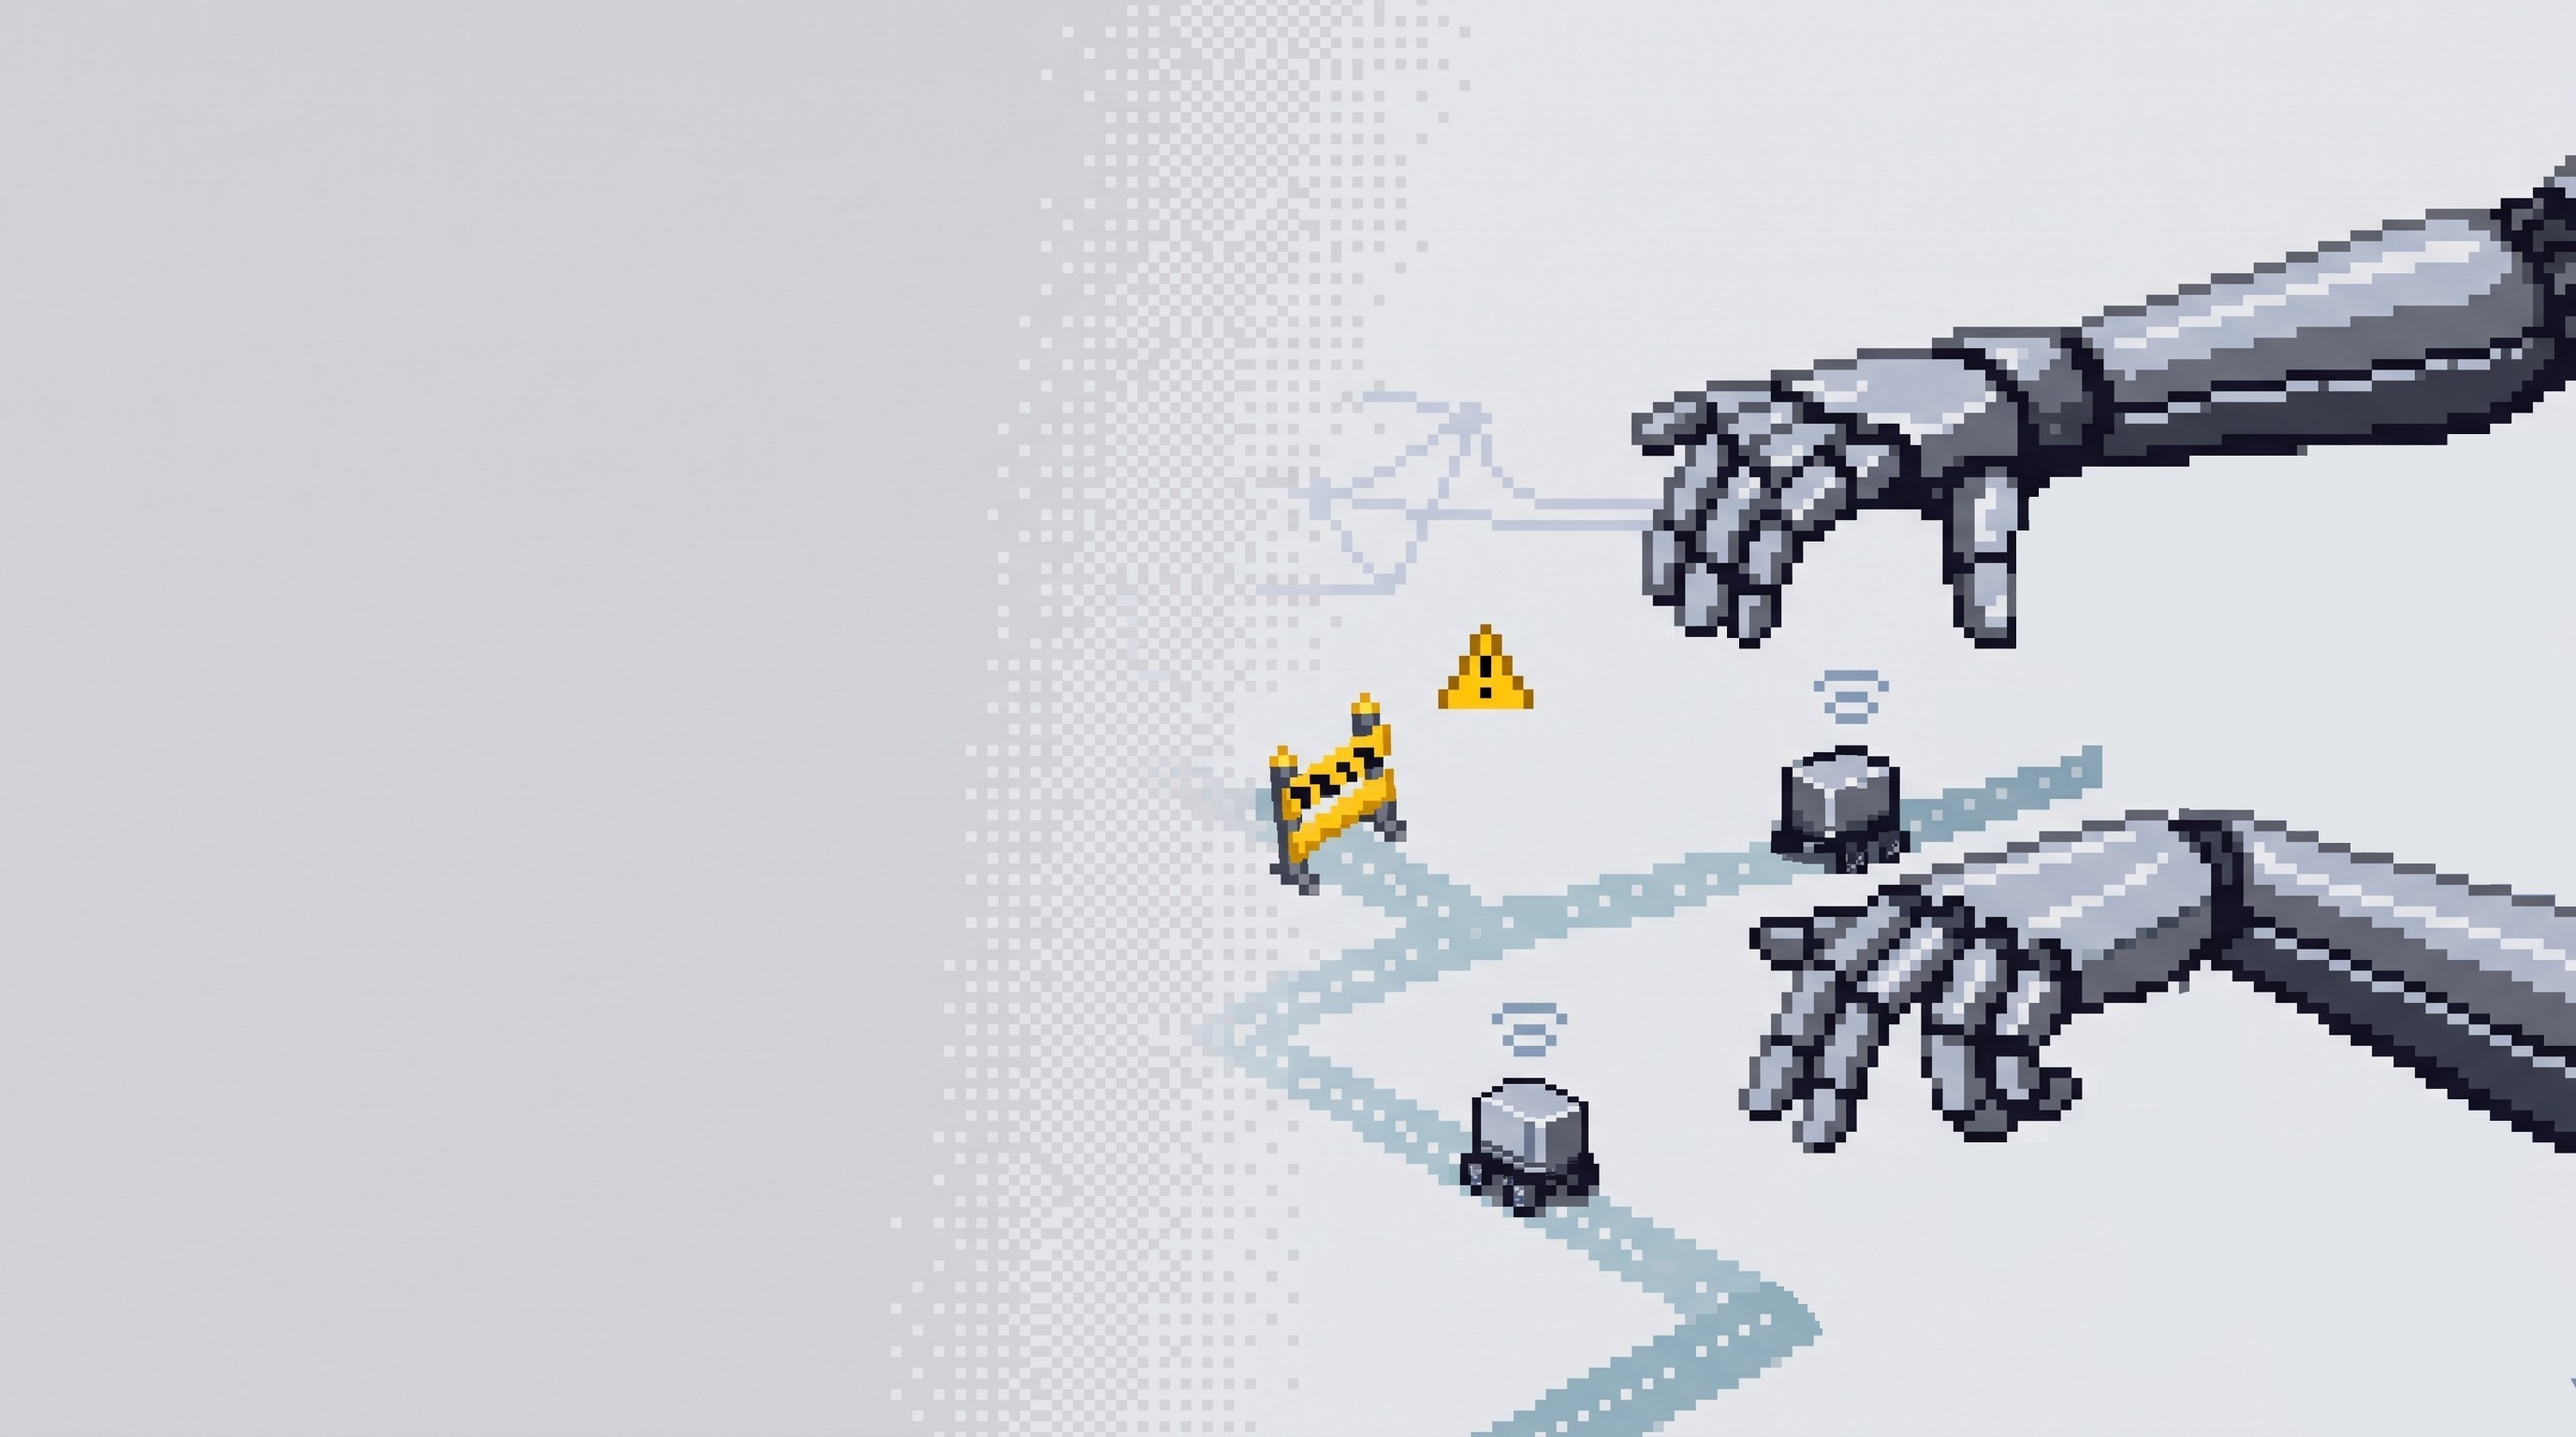
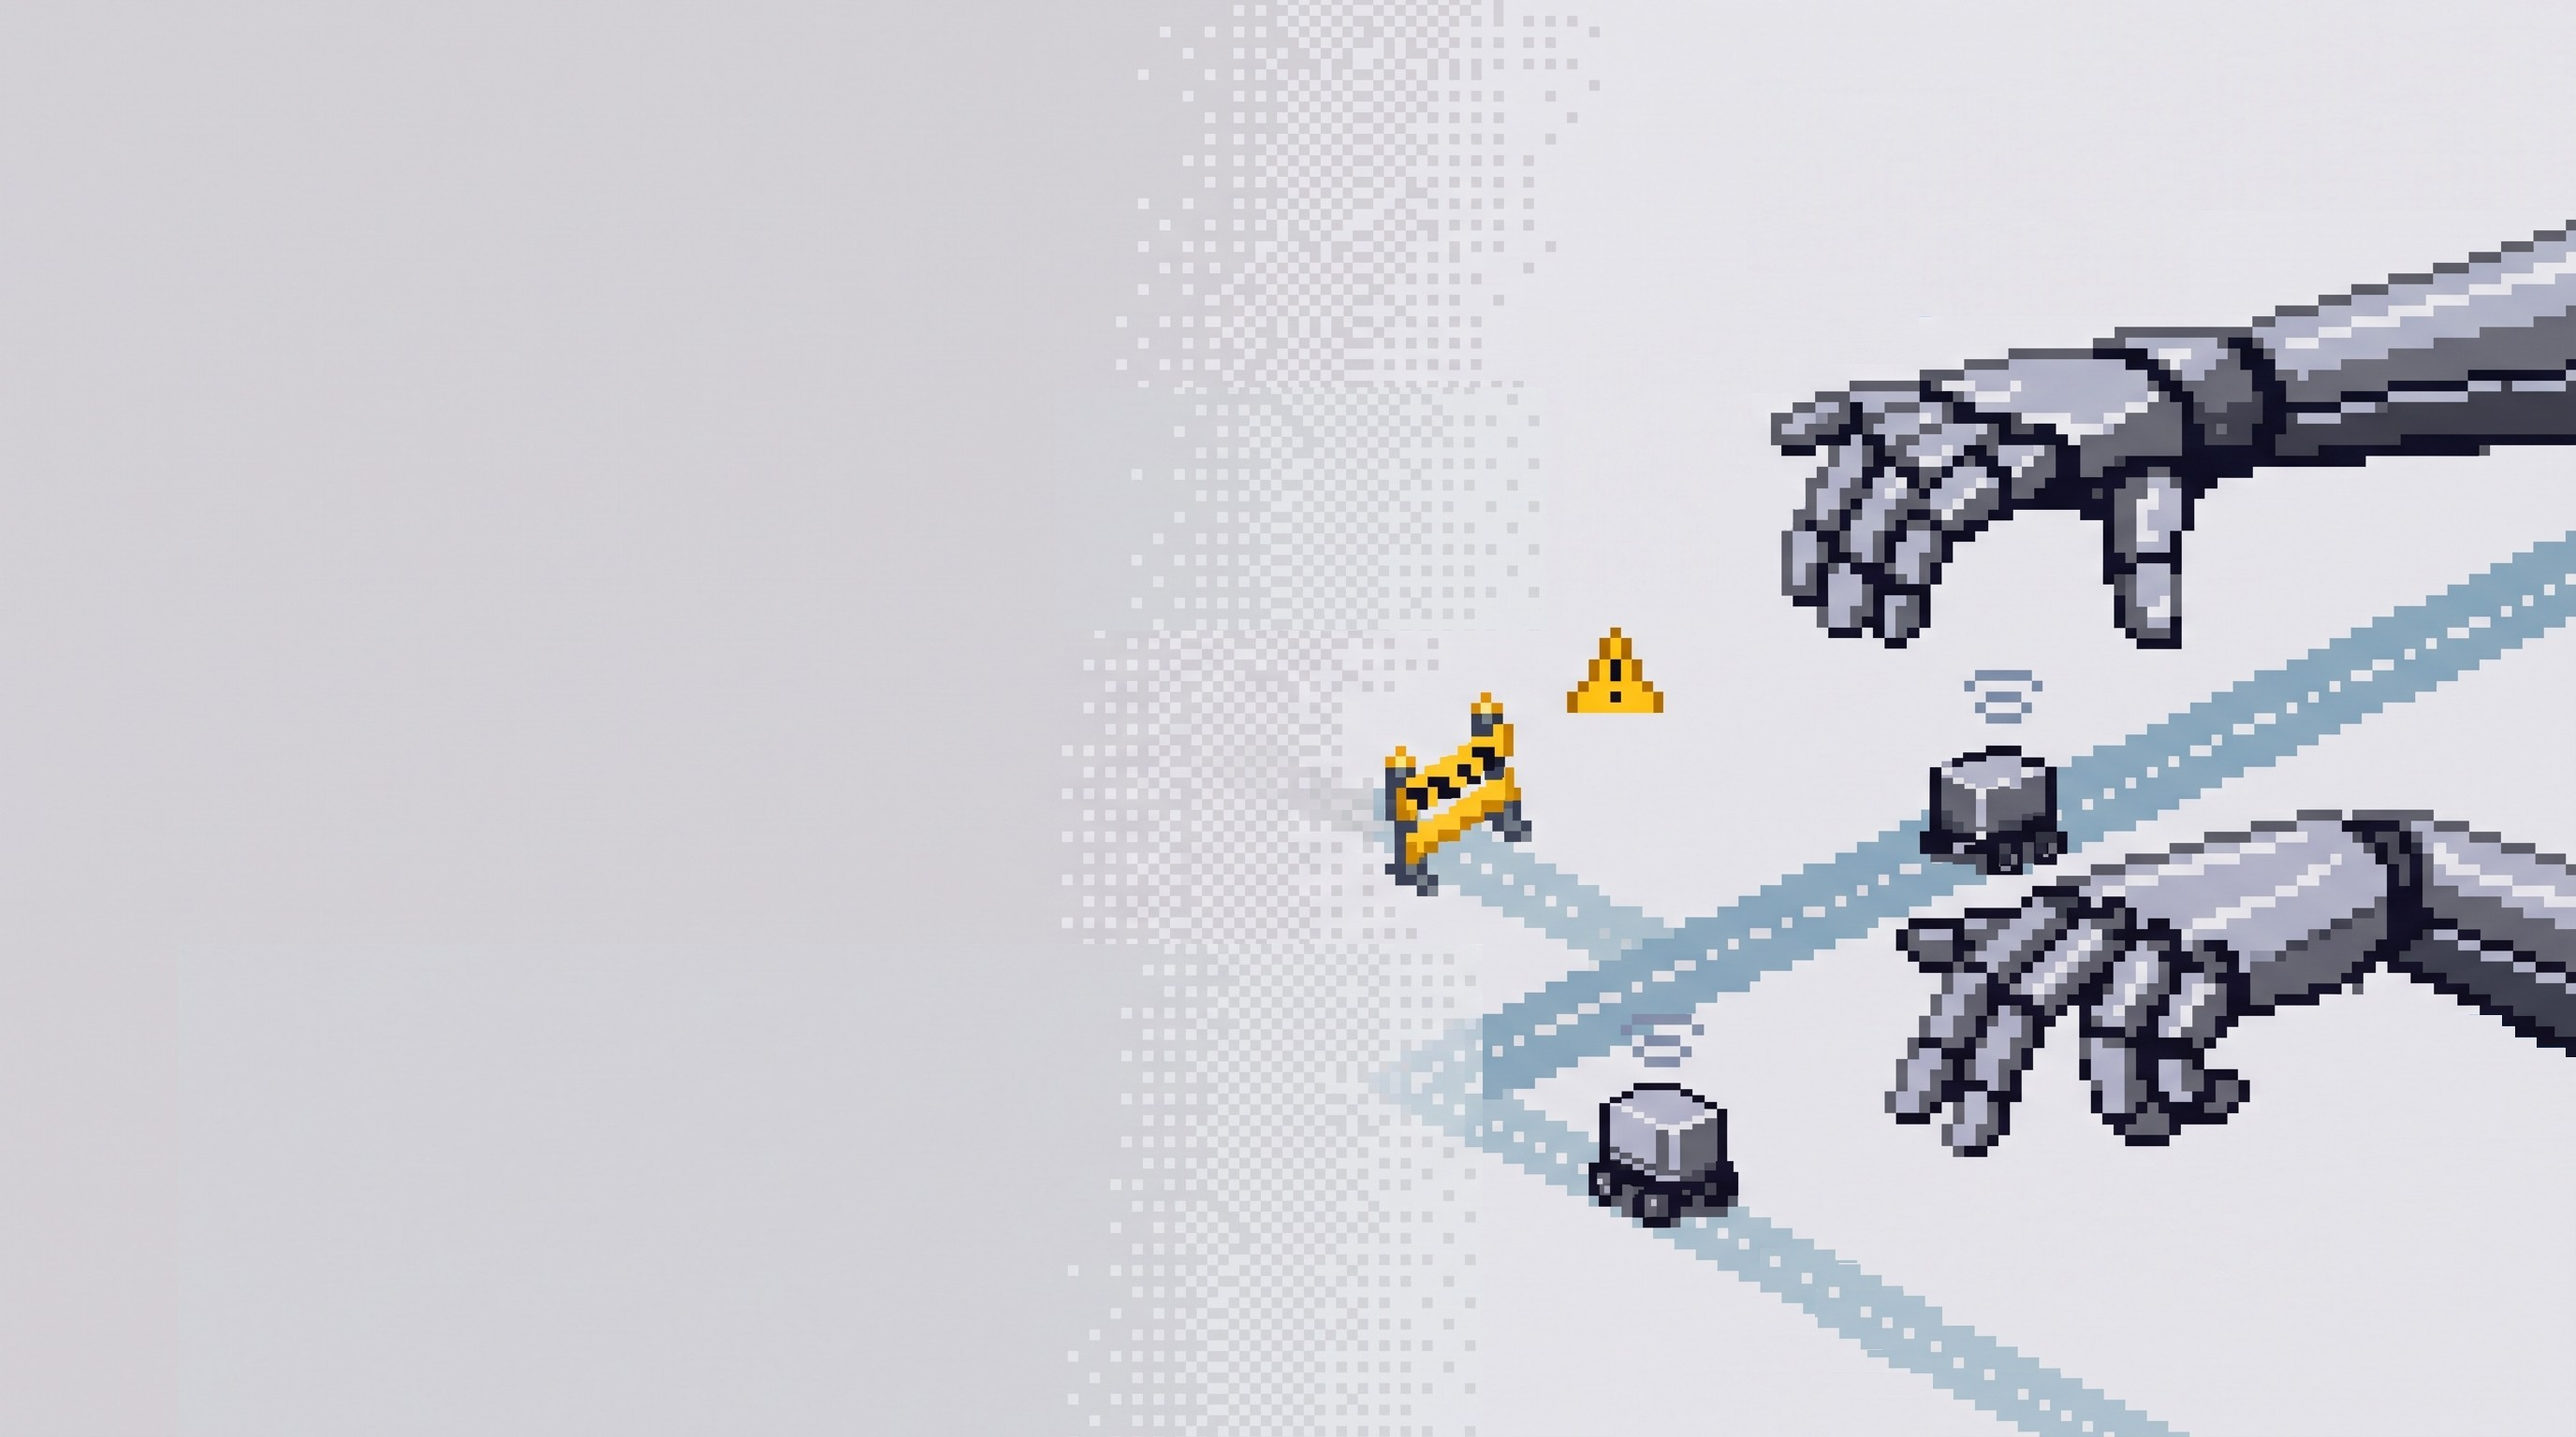
style(frontend): actualizar portada

diff --git a/frontend/src/pages/HomePage.css b/frontend/src/pages/HomePage.css
@@ -131,7 +131,7 @@
 /* Presentación principal */
 
 .home-page .hero {
-  min-height: 820px;
+  min-height: 800px;
   display: flex;
   align-items: center;
 
